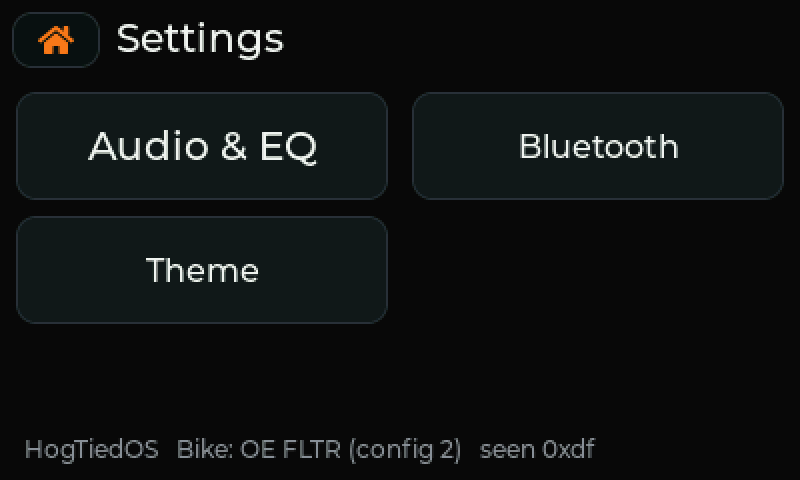
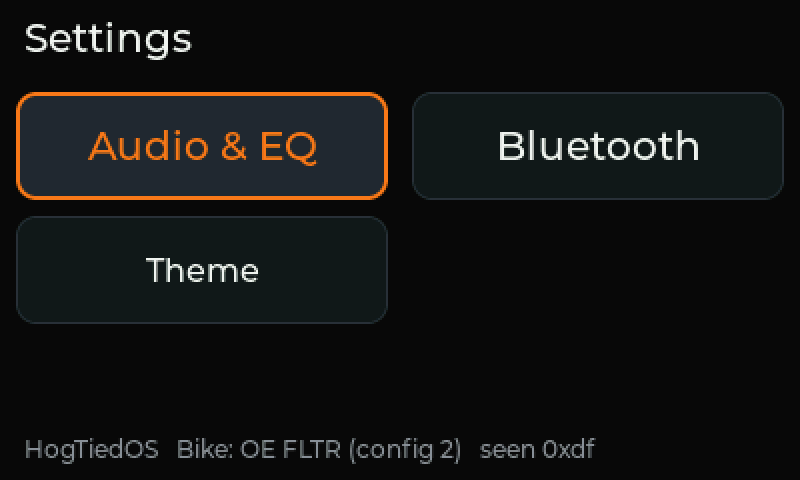
UI: make every page reachable and operable by the handlebars
- Settings: the Audio & EQ / Bluetooth / Theme buttons are now selectable
  (Up/Down/Left/Right) and opened with OK; the selection is highlighted.
- Audio: the Equalizer is a selectable item in the list (Up/Down to it,
  OK opens EQ) instead of a touch-only button, so EQ is reachable by the
  handlebars. Moved the button into the audio page.
- Info: Up/Down scroll the sensor list.
- Home selection highlight already added; combined, the full tree
  (Home -> Nav/Music/Info/Settings -> Audio -> EQ, Settings -> Bluetooth,
  Music -> Bluetooth) is navigable without touch.

diff --git a/software/hogtied-ui/src/ui.c b/software/hogtied-ui/src/ui.c
@@ -312,19 +312,66 @@ static void build_info(lv_obj_t *p)
 
 /* ---- Settings ----------------------------------------------------------- */
 
+#define SET_BTNS 3
+static lv_obj_t *set_btns[SET_BTNS];
+/* -1 = not a page (placeholder) */
+static const int set_targets[SET_BTNS] = { UI_PAGE_AUDIO, UI_PAGE_BLUETOOTH, -1 };
+static int set_sel;
+
+static void settings_highlight(void)
+{
+	for (int i = 0; i < SET_BTNS; i++) {
+		bool on = i == set_sel;
+
+		lv_obj_set_style_border_width(set_btns[i], on ? 2 : 1, 0);
+		lv_obj_set_style_border_color(set_btns[i], on ? COL_ACCENT : COL_LINE, 0);
+		lv_obj_set_style_bg_color(set_btns[i], on ? COL_SURFACE_HI : COL_SURFACE, 0);
+		lv_obj_set_style_text_color(lv_obj_get_child(set_btns[i], 0), on ? COL_ACCENT
+					    : COL_TEXT, 0);
+	}
+}
+
+bool ui_settings_key(enum ui_key key)
+{
+	switch (key) {
+	case UI_KEY_UP: case UI_KEY_LEFT: set_sel = (set_sel + SET_BTNS - 1) % SET_BTNS; break;
+	case UI_KEY_DOWN: case UI_KEY_RIGHT: set_sel = (set_sel + 1) % SET_BTNS; break;
+	case UI_KEY_ENTER:
+		if (set_targets[set_sel] >= 0)
+			show_page((enum ui_page)set_targets[set_sel]);
+		return true;
+	default: return false;
+	}
+	settings_highlight();
+	return true;
+}
+
 static void build_settings(lv_obj_t *p)
 {
 	lv_obj_t *cap;
 
 	cap = ui_label(p, FONT_RG, COL_TEXT, "Settings");
-	lv_obj_align(cap, LV_ALIGN_TOP_LEFT, 58, 8);
+	lv_obj_align(cap, LV_ALIGN_TOP_LEFT, 12, 8);
 
-	nav_button(p, 8, 46, 186, 54, "Audio & EQ", UI_PAGE_AUDIO);
-	nav_button(p, 206, 46, 186, 54, "Bluetooth", UI_PAGE_BLUETOOTH);
-	ui_button(p, 8, 108, 186, 54, "Theme", NULL, NULL);   /* placeholder */
+	set_btns[0] = nav_button(p, 8, 46, 186, 54, "Audio & EQ", UI_PAGE_AUDIO);
+	set_btns[1] = nav_button(p, 206, 46, 186, 54, "Bluetooth", UI_PAGE_BLUETOOTH);
+	set_btns[2] = ui_button(p, 8, 108, 186, 54, "Theme", NULL, NULL);   /* placeholder */
+	settings_highlight();
 
 	lbl_sys = ui_label(p, FONT_TINY, COL_DIM, "");
 	lv_obj_align(lbl_sys, LV_ALIGN_BOTTOM_LEFT, 12, -8);
+}
+
+/* Info is a scrollable column; the handlebars scroll it. */
+bool ui_info_key(enum ui_key key)
+{
+	if (key == UI_KEY_UP)
+		lv_obj_scroll_by(pages[UI_PAGE_INFO], 0, 60, LV_ANIM_ON);
+	else if (key == UI_KEY_DOWN)
+		lv_obj_scroll_by(pages[UI_PAGE_INFO], 0, -60, LV_ANIM_ON);
+	else
+		return false;
+	return true;
 }
 
 /* ---- navigation / chrome ----------------------------------------------- */
@@ -377,8 +424,6 @@ void ui_create(void)
 	ui_audio_build(pages[UI_PAGE_AUDIO]);
 	ui_eq_build(pages[UI_PAGE_EQ]);
 	ui_bt_build(pages[UI_PAGE_BLUETOOTH]);
-	/* Equalizer lives inside Audio settings */
-	nav_button(pages[UI_PAGE_AUDIO], 300, 206, 92, 30, "EQ", UI_PAGE_EQ);
 	/* back buttons through the settings hierarchy */
 	add_back(pages[UI_PAGE_AUDIO], UI_PAGE_SETTINGS);
 	add_back(pages[UI_PAGE_EQ], UI_PAGE_AUDIO);
@@ -538,6 +583,10 @@ void ui_key(enum ui_key key)
 	if (page == UI_PAGE_BLUETOOTH && ui_bt_key(key))
 		return;
 	if (page == UI_PAGE_HOME && ui_home_key(key))
+		return;
+	if (page == UI_PAGE_SETTINGS && ui_settings_key(key))
+		return;
+	if (page == UI_PAGE_INFO && ui_info_key(key))
 		return;
 	/* the handlebar back / Home key goes up one level (Home from the top) */
 	if (key == UI_KEY_BACK)

diff --git a/software/hogtied-ui/src/ui_audio.c b/software/hogtied-ui/src/ui_audio.c
@@ -42,8 +42,11 @@ static int last_engine = -1;               /* -1 = no engine state yet */
 static bool have_speed;
 static unsigned speed_kph_x10;
 static bool engine_running;
+#define SEL_EQ HBAS_AI_COUNT
+#define N_SEL (HBAS_AI_COUNT + 1)
 static int sel;
 static bool editing;
+static lv_obj_t *eq_btn, *eq_btn_lbl;
 static unsigned changes;
 
 static lv_obj_t *row[HBAS_AI_COUNT], *row_name[HBAS_AI_COUNT];
@@ -68,6 +71,15 @@ static void apply(void)
 	struct hbas_audio_db db;
 
 	eq_context();                           /* Harley preset follows volume/output */
+
+	{
+		bool on = sel == SEL_EQ;
+
+		lv_obj_set_style_border_width(eq_btn, on ? 2 : 1, 0);
+		lv_obj_set_style_border_color(eq_btn, on ? COL_ACCENT : COL_LINE, 0);
+		lv_obj_set_style_bg_color(eq_btn, on ? COL_SURFACE_HI : COL_SURFACE, 0);
+		lv_obj_set_style_text_color(eq_btn_lbl, on ? COL_ACCENT : COL_TEXT, 0);
+	}
 
 	hbas_audio_to_db(&audio, ui_eq_current(), &db);
 	if (backend && backend->apply)
@@ -112,6 +124,15 @@ static void refresh(void)
 		lv_obj_set_style_border_width(row[r], hi ? 2 : 0, 0);
 		lv_obj_set_style_border_color(row[r], editing && hi ? COL_ACCENT : COL_DIM, 0);
 		lv_obj_set_style_text_color(row_name[r], editing && hi ? COL_ACCENT : COL_TEXT, 0);
+	}
+
+	{
+		bool on = sel == SEL_EQ;
+
+		lv_obj_set_style_border_width(eq_btn, on ? 2 : 1, 0);
+		lv_obj_set_style_border_color(eq_btn, on ? COL_ACCENT : COL_LINE, 0);
+		lv_obj_set_style_bg_color(eq_btn, on ? COL_SURFACE_HI : COL_SURFACE, 0);
+		lv_obj_set_style_text_color(eq_btn_lbl, on ? COL_ACCENT : COL_TEXT, 0);
 	}
 
 	hbas_audio_to_db(&audio, ui_eq_current(), &db);
@@ -165,6 +186,12 @@ static void make_row(lv_obj_t *p, int r, bool symmetric, int min, int max)
 	}
 }
 
+static void eq_btn_clicked(lv_event_t *e)
+{
+	(void)e;
+	ui_goto(UI_PAGE_EQ);
+}
+
 void ui_audio_build(lv_obj_t *p)
 {
 	hbas_audio_defaults(&audio);
@@ -175,6 +202,11 @@ void ui_audio_build(lv_obj_t *p)
 	make_row(p, HBAS_AI_SPEED_VOLUME, false, 0, 0);
 	lbl_hint = ui_label(p, &lv_font_montserrat_14, COL_DIM, "");
 	lv_obj_align(lbl_hint, LV_ALIGN_TOP_RIGHT, -12, 8);
+	eq_btn = ui_card(p, 300, 206, 92, 30);
+	lv_obj_add_flag(eq_btn, LV_OBJ_FLAG_CLICKABLE);
+	lv_obj_add_event_cb(eq_btn, eq_btn_clicked, LV_EVENT_CLICKED, NULL);
+	eq_btn_lbl = ui_label(eq_btn, FONT_SM, COL_TEXT, "Equalizer");
+	lv_obj_center(eq_btn_lbl);
 	refresh();
 }
 
@@ -278,13 +310,17 @@ void ui_settings_set(const struct hbas_audio_settings *a, const struct hbas_eq *
 	refresh();
 }
 
+static bool sel_visible(int r)
+{
+	return r == SEL_EQ || row_visible(r);
+}
 static void move_sel(int dir)
 {
 	int r = sel;
 
 	do {
-		r = (r + dir + HBAS_AI_COUNT) % HBAS_AI_COUNT;
-	} while (!row_visible(r));
+		r = (r + dir + N_SEL) % N_SEL;
+	} while (!sel_visible(r));
 	sel = r;
 }
 
@@ -311,7 +347,12 @@ bool ui_audio_key(enum ui_key key)
 	switch (key) {
 	case UI_KEY_UP: move_sel(-1); break;
 	case UI_KEY_DOWN: move_sel(+1); break;
-	case UI_KEY_ENTER: editing = true; break;
+	case UI_KEY_ENTER:
+		if (sel == SEL_EQ)
+			ui_goto(UI_PAGE_EQ);
+		else
+			editing = true;
+		break;
 	default: return false;              /* Left/Right/Back: page navigation */
 	}
 	refresh();

diff --git a/software/hogtied-ui/src/main.c b/software/hogtied-ui/src/main.c
@@ -360,6 +360,7 @@ static int snapshot(const char *prefix, const char *map_dir, const char *map_sty
 		{ 22340, -1, "", "05c-radio-tuned" },
 		{ 22360, UI_PAGE_MEDIA, "LDDE", "05d-pair-nav" },
 		{ 22300, UI_PAGE_AUDIO, "", "06-audio" },
+		{ 22420, UI_PAGE_AUDIO, "UE", "06b-audio-eq-nav" },
 		{ 22400, UI_PAGE_EQ, "", "07-eq" },
 		{ 23000, UI_PAGE_HOME, "", "08-home-warn" },       /* low fuel: FUEL turns amber */
 	};
